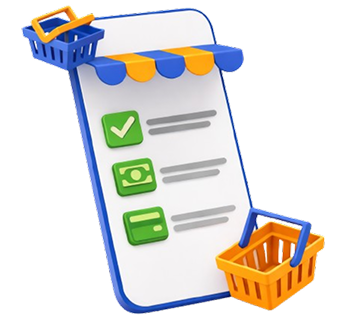
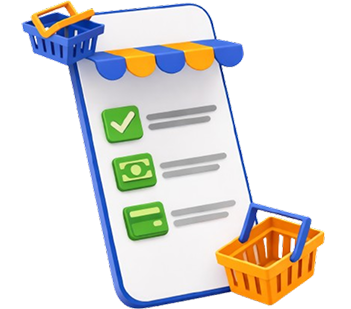
fix: compare screens

Changed region(s): [[0.2279, 0.3204, 0.9402, 1.0], [0.057, 0.0, 0.7123, 0.2621]]

diff --git a/src/Pages/LogIn.jsx b/src/Pages/LogIn.jsx
@@ -46,15 +46,6 @@ const LogIn = () => {
             <div className='input_div gap'>
                 <img src={log_logo} alt="EZ-SAVER Logo" />
                 <h1 className='log_h top1'>Log In Your Account</h1>
-                  
-                <div className='google'>
-                    <img src={google} alt="" />
-                    <p className='login_P'>Log In with Google</p>
-                </div> 
-
-                <div className='flex_row gap hr_w top1'>
-                    <hr className='hr' /><p className='login_p'>or</p><hr className='hr' />
-                </div>
             
                 <div className='column_start top1'>
                     <p className='login_p left'>E-mail</p>
@@ -80,11 +71,21 @@ const LogIn = () => {
                     </div>
                 </div>
 
-                <div onClick={handleLogin} style={{cursor: 'pointer'}} className='flex_column'>
+                <div onClick={handleLogin} style={{cursor: 'pointer'}} className='flex_column gap_bottom'>
                     <CTA2 title="Log in" />
                     <Link to='/Home' className='top1'><p className='login_p underline'>Log in later</p></Link>
                     <Link to='/SignUp'><p className='login_p'>Don't have an account? <span className='underline'>sign up</span></p></Link>
                 </div>
+
+                <div className='flex_row gap hr_w'>
+                    <hr className='hr' /><p className='login_p'>or</p><hr className='hr' />
+                </div>
+                             
+                <div className='google'>
+                    <img src={google} alt="" />
+                    <p className='login_P'>Log In with Google</p>
+                </div> 
+
             </div>
         </div>
     );

diff --git a/src/Pages/ItemsCompare.jsx b/src/Pages/ItemsCompare.jsx
@@ -56,8 +56,8 @@ const ItemsCompare = () => {
           <div className='flex_column_start'>
             <div className='flex_row_end'>
               <h2 className='price'>{product.price} EGP</h2>
-              <div className='find_link' onClick={() => handleSelect(product.id)} style={{cursor: 'pointer'}}>
-                <p className='notify_title'>{isSelected ? 'REMOVE' : 'VS'}</p>
+              <div className='vs' onClick={() => handleSelect(product.id)} style={{cursor: 'pointer'}}>
+                <p className=''>{isSelected ? 'X' : 'VS'}</p>
               </div>
             </div>
             <p className='product_name'>{product.name}</p>
@@ -85,9 +85,9 @@ const ItemsCompare = () => {
         <Title title={`${selectedCategory.toUpperCase()} PRODUCTS`} />
         <div className='product_scroll_div'>
           {products.map(product => 
-          <Link to={`/ProductDetails/${product.id}`} key={product.id} className='product_card_link'>
+          // <Link to={`/ProductDetails/${product.id}`} key={product.id} className='product_card_link'>
             <ProductItem product={product} />
-          </Link>
+          // </Link>
           )}
         </div>
       </div>
@@ -96,9 +96,9 @@ const ItemsCompare = () => {
         <Title title='ALL Products' />
         <div className='product_scroll_div bottom'>
           {products.map(product => 
-          <Link to={`/ProductDetails/${product.id}`} key={product.id} className='product_card_link'>
+          // <Link to={`/ProductDetails/${product.id}`} key={product.id} className='product_card_link'>
             <ProductItem product={product} />
-          </Link>
+          // </Link>
           )}
         </div>
       </div>

diff --git a/src/Pages/LogIn.css b/src/Pages/LogIn.css
@@ -22,7 +22,7 @@
     font-size: 28px;
     font-style: normal;
     font-weight: 400;
-    line-height: 120%; /* 48px */
+    line-height: 120%; 
     margin: 0;
 }
 .login_p{
@@ -79,14 +79,6 @@ align-items: start;
 }
 
 .error_container {
-    display: flex;
-    align-items: center;
-    gap: 10px;
-    /* background-color: #fff1f0;
-    border: 1px solid #ffa39e; */
-    padding: 12px;
-    border-radius: 8px;
-    margin: 15px 0;
     width: 100%;
     animation: shake 0.2s ease-in-out 0s 2; /* Attention grabber */
 }
@@ -165,4 +157,7 @@ align-items: start;
     color: var(--primary_color);
     /* background: rgba(18, 17, 128, 0.5); */
     background-color: var(--main_color);
+}
+.gap_bottom{
+    margin: 0 0 8px 0;
 }

diff --git a/src/Pages/Compare.jsx b/src/Pages/Compare.jsx
@@ -116,8 +116,8 @@ const Compare = () => {
                 <div className='flex_column_start'>
                   <div className='flex_row_end'>
                     <h2 className='price'>{product.price} EGP</h2>
-                    <Link className='find_link' to={`/Compare?id1=${id1}&id2=${product.id}`}>
-                      <p className='notify_title'>VS</p>
+                    <Link className='vs' to={`/Compare?id1=${id1}&id2=${product.id}`}>
+                      <p className='vs'>VS</p>
                     </Link>
                   </div>
                   <p className='product_name'>{product.name}</p>

diff --git a/src/Components/Nav.css b/src/Components/Nav.css
@@ -2,13 +2,14 @@
   position: fixed;
   bottom: 0;
   left: 0;
-  width: 396px;
-  height: 80px;
+  width: 100%;
+  /* width: 396px; */
+  height: 68px;
   background-color: var(--primary_color);
   display: flex;
   justify-content: space-around;
   align-items: center;
-  border-top: 1px solid #f0f0f0;
+  border-top: 3px solid #f0f0f0;
   z-index: 1000;
   /* gap: 6%; */
 }

diff --git a/src/Pages/Compare.css b/src/Pages/Compare.css
@@ -50,14 +50,14 @@
 }
 
 .vs{
-    width: 80px;
-height: 80px;
+    width: 46px;
+height: 46px;
 display: flex;
 align-items: center;
 justify-content: center;
 color: var(--primary_color);
 font-family: var(--font_1);
-font-size: 38px;
+    font-size: 18px;
 font-style: normal;
 font-weight: 400;
 line-height: normal;

diff --git a/src/Pages/Onboarding3.jsx b/src/Pages/Onboarding3.jsx
@@ -29,7 +29,7 @@ function Onboarding3() {
           {/* <Link to='/LogIn'>
             <p className='guest'>Continue as a Guest</p>
           </Link> */}
-          <CTA1 title='Sign Up' url='/Home' />
+          {/* <CTA1 title='Sign Up' url='/Home' /> */}
         </div>
     </div>
   );

diff --git a/src/Pages/Onboarding.css b/src/Pages/Onboarding.css
@@ -1,6 +1,6 @@
 .onboarding{
     width: 100%;
-    height: 102vh;
+    height: 100vh;
     background-image: url(./../Assets/onboarding_bg.png);
     background-repeat: no-repeat;
     background-size: cover;

diff --git a/src/Pages/Home.css b/src/Pages/Home.css
@@ -1,6 +1,6 @@
 .home_body{
-    width: 394px;
-    /* width: 100%; */
+    /* width: 394px; */
+    width: 100%;
     /* height: 100vh; */
     background-color: var(--primary_color);
     overflow-y: auto;

diff --git a/src/Pages/index.css b/src/Pages/index.css
@@ -26,7 +26,8 @@
 }
 
 body{
-    width: 394px !important;
+    width: 100% !important;
+    /* width: 394px !important; */
     /* height: 100vh;  */
     margin: 0;
     padding: 0;
